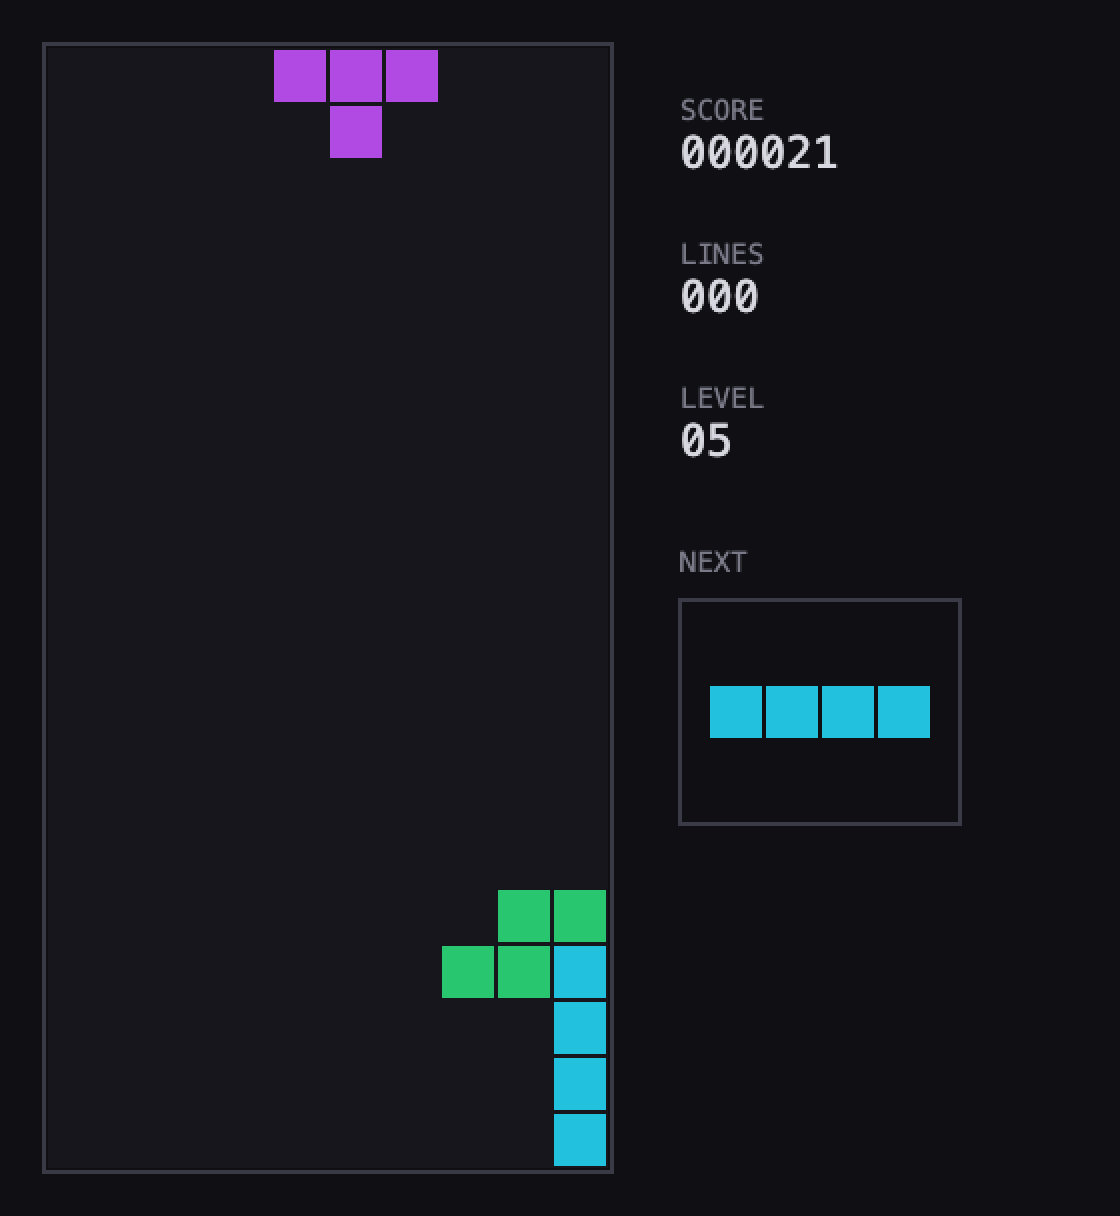
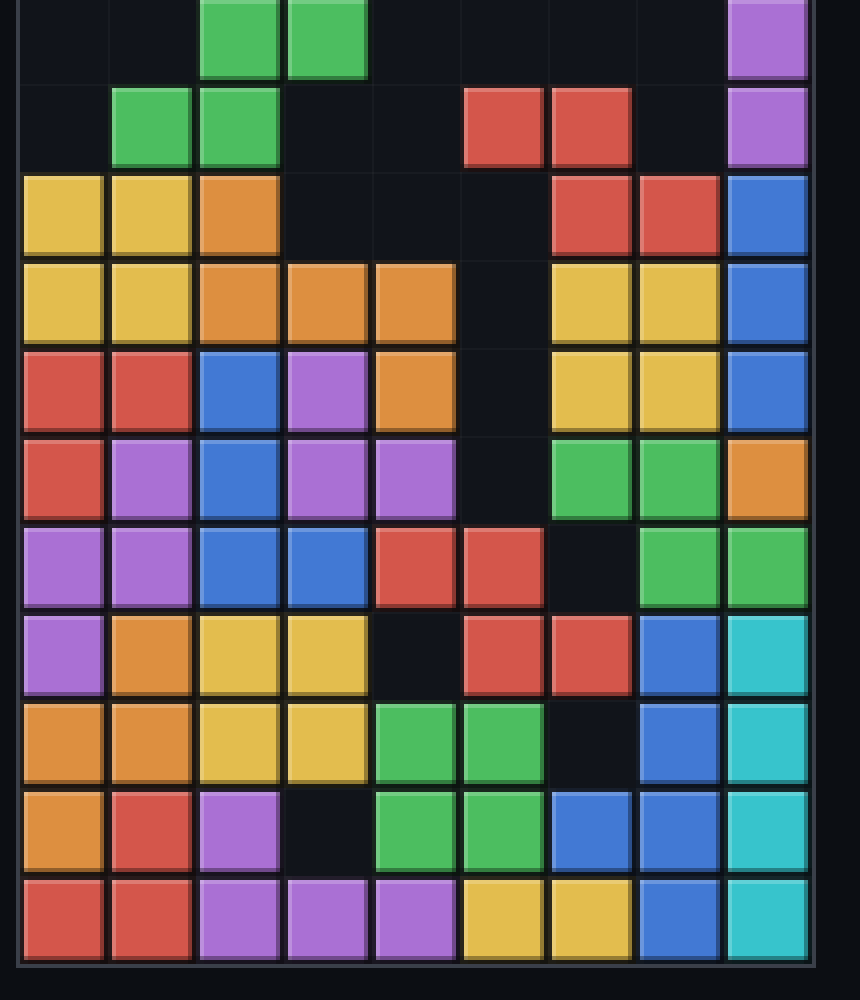
Games: new shelf index, Stealth landing mobile fix, denser Tetris thumb
- games/index.html: redesigned /games as an organised, scalable shelf (theme-aware,
  Stealth flagged first, per-game colour, 'in the workshop' growth slot). Verified
  against live main.css on desktop + iPhone 14 Pro Max (WebKit), light + dark.
- games/stealth/index.html: mobile fix — wordmark no longer clips at phone width,
  topbar declutters, Play/Story/Manual stack to full-width tap targets.
- games/tetris/thumb.png: replace the sparse frame with a dense NES board.

diff --git a/games/index.html b/games/index.html
@@ -5,87 +5,91 @@ permalink: /games/
 ---
 
 <style>
-  .games-intro { color: var(--meta-color); margin-bottom: 1.5rem; }
-  .games-grid {
-    display: grid;
-    grid-template-columns: repeat(auto-fill, minmax(260px, 1fr));
-    gap: 1.5rem;
-    margin: 0;
-    padding: 0;
-    list-style: none;
+  @import url('https://fonts.googleapis.com/css2?family=Hanken+Grotesk:wght@400;500;600;700;800&family=Space+Mono:wght@400;700&display=swap');
+
+  .gs{ font-family:"Hanken Grotesk", system-ui, sans-serif; }
+  .gs-mast{ margin:.5rem 0 2.2rem; }
+  .gs-mast > *{ margin:0; }
+  .gs-kick{ font-family:"Space Mono", monospace; font-size:.7rem; letter-spacing:.16em; text-transform:uppercase; color:var(--meta-color); }
+  .gs-h1{ font-weight:800; font-size:clamp(40px,7vw,70px); line-height:.95; letter-spacing:-.025em; margin:.45rem 0 .55rem; color:var(--text-color); }
+  .gs-sub{ color:var(--meta-color); font-size:1.02rem; line-height:1.5; max-width:62ch; }
+  .gs-sub b{ color:var(--text-color); font-weight:600; }
+
+  .gs-shelf-h{ display:flex; align-items:center; gap:.8rem; margin:0 0 1.1rem; }
+  .gs-shelf-h .t{ font-family:"Space Mono",monospace; font-size:.72rem; letter-spacing:.14em; text-transform:uppercase; color:var(--text-color); }
+  .gs-shelf-h .r{ flex:1; height:1px; background:var(--border-color); }
+  .gs-shelf-h .c{ font-family:"Space Mono",monospace; font-size:.7rem; color:var(--meta-color); }
+
+  .gs-row{ display:grid; grid-template-columns:repeat(auto-fill,minmax(248px,1fr)); gap:1.3rem; margin:0; padding:0; list-style:none; }
+  .gs-plate{ display:flex; flex-direction:column; text-decoration:none; color:inherit; background:var(--background-alt);
+    border:1px solid var(--border-color); border-radius:12px; overflow:hidden;
+    transition:transform .14s ease, box-shadow .14s ease, border-color .14s ease; }
+  .gs-plate:hover,.gs-plate:focus-visible{ transform:translateY(-4px); box-shadow:0 12px 26px rgba(0,0,0,.18); border-color:var(--accent); }
+  .gs-thumb{ position:relative; aspect-ratio:16/10; overflow:hidden; background:#0d0f16; border-bottom:3px solid var(--accent); }
+  .gs-thumb img{ width:100%; height:100%; object-fit:cover; image-rendering:pixelated; display:block; }
+  .gs-flag{ position:absolute; top:9px; left:9px; font:700 .6rem/1 "Space Mono",monospace; letter-spacing:.12em; text-transform:uppercase;
+    color:#fff; background:var(--accent); padding:4px 8px; border-radius:5px; box-shadow:0 2px 8px rgba(0,0,0,.35); }
+  .gs-info{ display:flex; align-items:flex-start; gap:.6rem; padding:.8rem .9rem .95rem; }
+  .gs-sw{ width:10px; height:10px; border-radius:3px; background:var(--accent); flex:0 0 auto; margin-top:.32rem; }
+  .gs-tx{ display:flex; flex-direction:column; min-width:0; }
+  .gs-nm{ font-weight:700; font-size:1.08rem; line-height:1.1; color:var(--text-color); }
+  .gs-sub2{ color:var(--meta-color); font-size:.83rem; line-height:1.36; margin-top:.22rem; }
+  .gs-go{ margin-left:auto; align-self:flex-start; color:var(--meta-color); font-size:1.1rem; transition:transform .14s ease, color .14s ease; }
+  .gs-plate:hover .gs-go{ color:var(--accent); transform:translateX(3px); }
+  .p-stealth{ --accent:#5a57e0; } .p-rally{ --accent:#15a892; } .p-tetris{ --accent:#df4632; }
+
+  .gs-ghost{ background:transparent; border:1px dashed var(--border-color); }
+  .gs-ghost .gs-thumb{ background:transparent; border-bottom:3px dashed var(--border-color); display:flex; align-items:center; justify-content:center; }
+  .gs-ghost .gs-thumb span{ font-size:1.7rem; color:var(--meta-color); font-weight:300; }
+  .gs-ghost .gs-nm{ color:var(--meta-color); }
+  .gs-ghost:hover{ transform:none; box-shadow:none; border-color:var(--border-color); }
+
+  .gs-ledge{ height:8px; margin:1.1rem 3px 0; border-radius:0 0 7px 7px; background:var(--border-color); box-shadow:0 12px 20px rgba(0,0,0,.10); }
+
+  .gs-foot{ margin:1.8rem 0 0; color:var(--meta-color); font-size:.92rem; line-height:1.5; }
+  .gs-foot a{ color:var(--link-color); text-decoration:none; font-weight:600; }
+  .gs-foot a:hover{ text-decoration:underline; }
+
+  @media (max-width:600px){
+    .gs-h1{ font-size:clamp(38px,11vw,56px); }
+    .gs-sub{ font-size:.96rem; }
   }
-  .game-card {
-    display: block;
-    border: 1px solid var(--border-color);
-    border-radius: 10px;
-    overflow: hidden;
-    background: var(--background-alt);
-    color: inherit;
-    text-decoration: none;
-    transition: transform .12s ease, box-shadow .12s ease, border-color .12s ease;
-  }
-  .game-card:hover,
-  .game-card:focus-visible {
-    transform: translateY(-3px);
-    box-shadow: 0 8px 22px rgba(0, 0, 0, .22);
-    border-color: var(--link-color);
-  }
-  .game-card .thumb {
-    display: block;
-    width: 100%;
-    aspect-ratio: 10 / 9;
-    object-fit: cover;
-    background: #101014;
-    image-rendering: pixelated;
-  }
-  .game-card .meta { padding: .85rem 1rem 1rem; }
-  .game-card .title { margin: 0; font-weight: 600; font-size: 1.1rem; }
-  .game-card .sub { margin: .3rem 0 0; color: var(--meta-color); font-size: .85rem; line-height: 1.35; }
 </style>
 
-<div class="post">
-  <header class="post-header">
-    <h1 class="post-title">Games</h1>
+<div class="gs">
+  <header class="gs-mast">
+    <div class="gs-kick">davidslv &middot; game library &mdash; canvas 2D &middot; zero dependencies</div>
+    <h1 class="gs-h1">Games</h1>
+    <p class="gs-sub">Small games I build from scratch, one at a time &mdash; faithful studies of how they played, the 80s through the 2000s. <b>Three up now</b>; the shelf grows as I finish more.</p>
   </header>
 
-  <article class="post-content">
-    <p class="games-intro">
-      Small browser games written as &ldquo;play it as it was&rdquo; studies &mdash; original code on an
-      HTML canvas, no engine, no dependencies. Playable with the keyboard or a gamepad.
-    </p>
+  <section class="gs-shelf">
+    <div class="gs-shelf-h"><span class="t">Playable now</span><span class="r"></span><span class="c">3 games</span></div>
+    <div class="gs-row">
 
-    <ul class="games-grid">
-      <li>
-        <a class="game-card" href="{{ site.baseurl }}/games/rally/">
-          <img class="thumb" src="{{ site.baseurl }}/games/rally/thumb.png"
-               alt="Rally — a Game Boy Color-style pseudo-3D racer" width="640" height="576" loading="lazy">
-          <div class="meta">
-            <p class="title">Rally</p>
-            <p class="sub">A Game Boy Color&ndash;style pseudo-3D rally racer. Arrows / X to drive, or plug in a gamepad.</p>
-          </div>
-        </a>
-      </li>
-      <li>
-        <a class="game-card" href="{{ site.baseurl }}/games/tetris/">
-          <img class="thumb" src="{{ site.baseurl }}/games/tetris/thumb.png"
-               alt="Tetris — an NES-style falling-block game" width="560" height="608" loading="lazy">
-          <div class="meta">
-            <p class="title">Tetris</p>
-            <p class="sub">NES-style falling blocks, mechanics as they were. Arrows + Z/X, or plug in a gamepad.</p>
-          </div>
-        </a>
-      </li>
-      <li>
-        <a class="game-card" href="{{ site.baseurl }}/games/stealth/">
-          <img class="thumb" src="{{ site.baseurl }}/games/stealth/thumb.png"
-               alt="Stealth — a top-down stealth study" width="522" height="470" loading="lazy">
-          <div class="meta">
-            <p class="title">Stealth</p>
-            <p class="sub">Top-down stealth &mdash; slip past vision cones and patrols to the exit across a 20-level campaign. Arrows + Z, or plug in a gamepad.</p>
-          </div>
-        </a>
-      </li>
-      <!-- Add more games here as <li> cards (e.g. smb) -->
-    </ul>
-  </article>
+      <a class="gs-plate p-stealth" href="{{ site.baseurl }}/games/stealth/">
+        <div class="gs-thumb"><img src="{{ site.baseurl }}/games/stealth/thumb.png" alt="Stealth — top-down infiltration" width="522" height="470" loading="lazy"><span class="gs-flag">Flagship</span></div>
+        <div class="gs-info"><span class="gs-sw"></span><div class="gs-tx"><span class="gs-nm">Stealth</span><span class="gs-sub2">Top-down infiltration &mdash; read the cones, slip the patrols. A 20-level campaign.</span></div><span class="gs-go">&rarr;</span></div>
+      </a>
+
+      <a class="gs-plate p-rally" href="{{ site.baseurl }}/games/rally/">
+        <div class="gs-thumb"><img src="{{ site.baseurl }}/games/rally/thumb.png" alt="Rally — a Game Boy Color pseudo-3D racer" width="640" height="576" loading="lazy"></div>
+        <div class="gs-info"><span class="gs-sw"></span><div class="gs-tx"><span class="gs-nm">Rally</span><span class="gs-sub2">Game Boy Color pseudo-3D racer. Lean into the bends, never lift.</span></div><span class="gs-go">&rarr;</span></div>
+      </a>
+
+      <a class="gs-plate p-tetris" href="{{ site.baseurl }}/games/tetris/">
+        <div class="gs-thumb"><img src="{{ site.baseurl }}/games/tetris/thumb.png" alt="Tetris — an NES-style falling-block game" width="560" height="608" loading="lazy"></div>
+        <div class="gs-info"><span class="gs-sw"></span><div class="gs-tx"><span class="gs-nm">Tetris</span><span class="gs-sub2">NES falling blocks &mdash; clear lines, chase the tetris.</span></div><span class="gs-go">&rarr;</span></div>
+      </a>
+
+      <div class="gs-plate gs-ghost" aria-hidden="true">
+        <div class="gs-thumb"><span>+</span></div>
+        <div class="gs-info"><div class="gs-tx"><span class="gs-nm">In the workshop</span><span class="gs-sub2">More studies on the bench &mdash; they slot in right here.</span></div></div>
+      </div>
+
+    </div>
+    <div class="gs-ledge"></div>
+  </section>
+
+  <p class="gs-foot">Every one hand-built from scratch &mdash; no engine, no dependencies, no downloads. <a href="{{ site.baseurl }}/presentations/lockstep.html">How they&rsquo;re built &rarr;</a></p>
 </div>

diff --git a/games/stealth/index.html b/games/stealth/index.html
@@ -767,6 +767,27 @@
     .keymap{ grid-template-columns:1fr; }
     .tips{ grid-template-columns:1fr; }
   }
+
+  /* ── phones (iPhone 14 Pro Max = 430px, and narrower) ── */
+  @media (max-width:600px){
+    .hero-wrap{ padding:20px 20px 40px; }
+    .topbar{ font-size:10px; gap:8px 12px; flex-wrap:wrap; letter-spacing:.14em; }
+    .topbar .who span{ display:none; }       /* drop the long subtitle */
+    .topbar nav{ gap:14px; }
+    .eyebrow{ font-size:10px; letter-spacing:.26em; margin-bottom:16px; }
+    /* shrink the wordmark + all three split overlays so STEALTH fits, never clips */
+    .hero-wrap h1.title,
+    .hero-wrap .title-steel,
+    .hero-wrap .title-lit,
+    .hero-wrap .title-edge{ font-size:clamp(48px,18.5vw,90px); }
+    .tagline{ font-size:21px; }
+    .lore{ max-width:none; }
+    /* full-width tap targets, stacked */
+    .entries{ grid-template-columns:1fr; gap:12px; margin-top:26px; }
+    .entry{ min-height:0; }
+    .entry.play{ grid-column:auto; }
+    .leaf{ padding:30px 22px 26px; }
+  }
 </style>
 </head>
 <body>